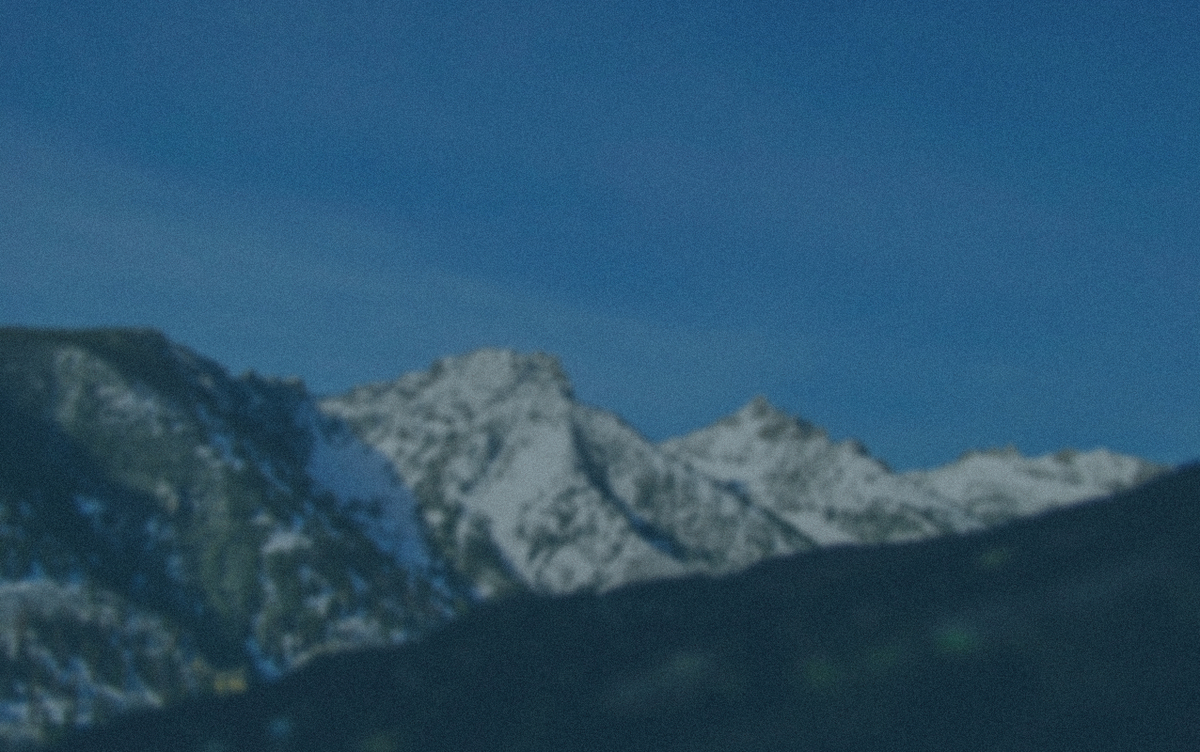
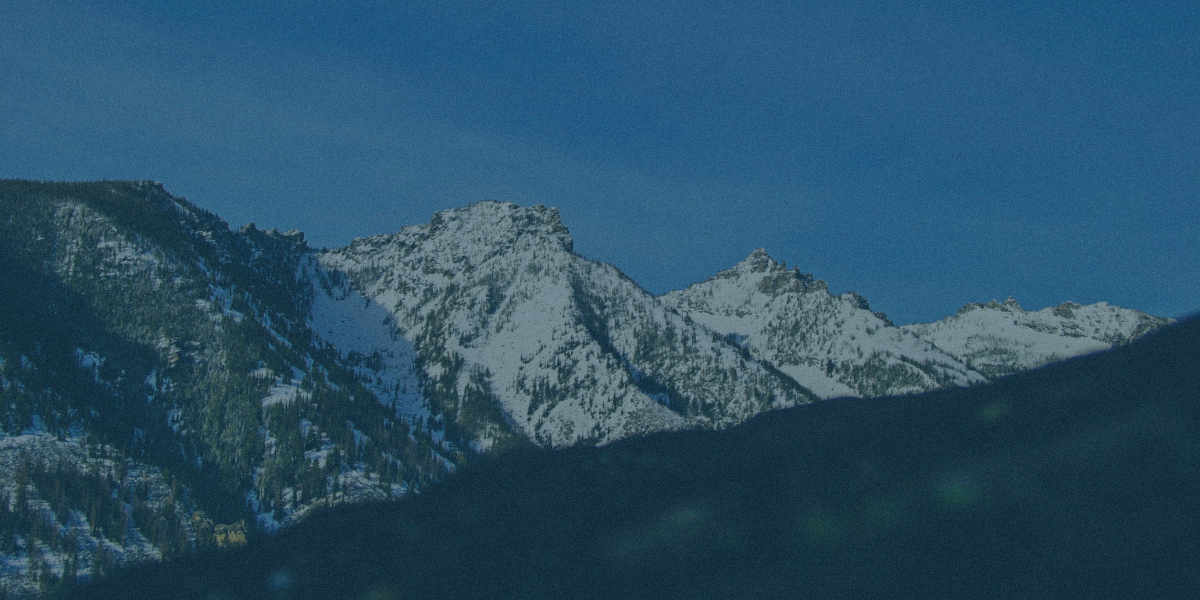
add hero slider

diff --git a/src/scss/pages/_home.scss b/src/scss/pages/_home.scss
@@ -2,22 +2,53 @@
 @import "mixins";
 
 .hero {
+  position: relative;
   width: 100%;
-  background: url("img/concrete-bed.jpg") no-repeat center left;
-  background-size: cover;
   background-color: $bg-secondary;
+  overflow: hidden;
 
   @include mq-small {
     text-align: center;
   }
 
-  @include mq-medium {
-    background-position: center;
-  }
-
   @include mq-large {
     border-radius: $border-radius $border-radius 0 0;
   }
+
+  &>div {
+  }
+
+  .button {
+    @include mq-small {
+      margin: 0 $padding-small;
+    }
+  }
+}
+
+.hero-bg-wrapper {
+  position: absolute;
+  top: 0;
+  left: 0;
+  width: 100%;
+  height: 100%;
+  transition: transform 1s;
+
+  div {
+    width: 100%;
+    height: 100%;
+    background-size: cover;
+    background-repeat: no-repeat;
+    background-position: center left;
+
+    @include mq-medium {
+      background-position: center;
+    }
+  }
+}
+
+.hero-content-wrapper {
+  position: relative;
+  z-index: 4;
 
   p {
     color: $white;
@@ -40,11 +71,6 @@
     }
   }
 
-  .button {
-    @include mq-small {
-      margin: 0 $padding-small;
-    }
-  }
 }
 
 .intro {

diff --git a/src/html/index.html b/src/html/index.html
@@ -3,11 +3,17 @@
 {{ partial "nav.html" . }}
 
 <section class="hero">
-  <p>3.5 million people in the U.S. become homeless every year.</p>
+  <div class="hero-bg-wrapper">
+    <div style="background-image: url('img/slider-concrete-bed.jpg')"></div>
+    <div style="background-image: url('img/slider-blanket.jpg')"></div>
+  </div>
+  <div class="hero-content-wrapper">
+    <p>3.5 million people in the U.S. become homeless every year.</p>
 
-  <div class="inline-buttons">
-    <a class="button button-accent" href="/volunteer/">Volunteer</a>
-    <a class="button button-secondary" href="/donate/">Donate</a>
+    <div class="inline-buttons">
+      <a class="button button-accent" href="/volunteer/">Volunteer</a>
+      <a class="button button-secondary" href="/donate/">Donate</a>
+    </div>
   </div>
 </section>
 

diff --git a/src/js/main.js b/src/js/main.js
@@ -41,11 +41,19 @@
   Stickyfill.add(document.querySelector('nav'));
 
   window.odometerOptions = { auto: false };
-
   for (const el of document.querySelectorAll('.odometer')) {
     inViewport(el, { offset: 100 }, () => {
       const od = new Odometer({ el, value: 0, duration: el.dataset.duration });
       od.update(el.dataset.value);
     });
   }
+
+  const bg = document.querySelector('.hero-bg-wrapper');
+  const children = bg.children.length;
+  let currentBg = 0;
+  setInterval(() => {
+    if (currentBg < children - 1) currentBg++;
+    else currentBg = 0;
+    bg.style = `transform: translateY(-${100 * currentBg}%)`;
+  }, 4000);
 })();
